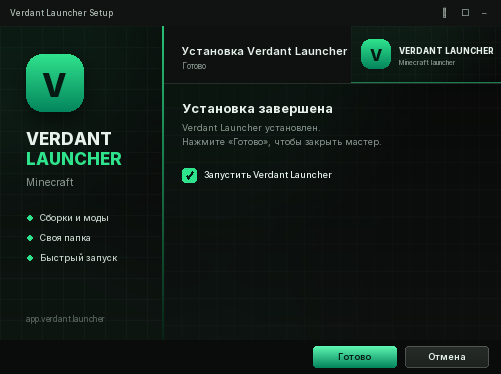
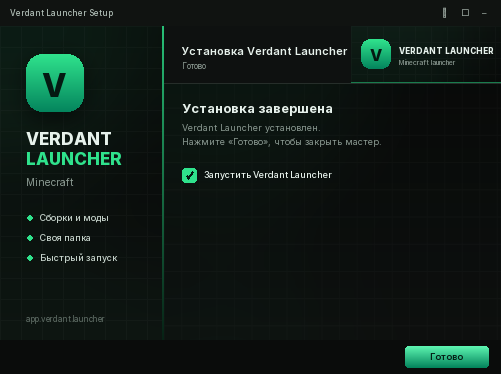
docs: installer screenshots, build notes and CI verification

Changed region(s): [[0.5988, 0.9118, 0.988, 1.0]]

diff --git a/build/installer/generate.py b/build/installer/generate.py
@@ -287,7 +287,7 @@ def preview() -> None:
         draw.text((40, 149), 'Запустить Verdant Launcher', font=font('Medium', 9), fill=TEXT, anchor='lm')
 
     _window(_page('emerald', 'Установка Verdant Launcher', 'Готово', finish_body),
-            'emerald', [('Готово', 'primary'), ('Отмена', 'ghost')]).save(os.path.join(shots, 'installer-finish.png'))
+            'emerald', [('Готово', 'primary')]).save(os.path.join(shots, 'installer-finish.png'))
 
     def uninstall_body(page, draw):
         draw.text((18, 74), 'Удаление Verdant Launcher', font=font('Bold', 13), fill=TEXT)

diff --git a/docs/REPORT.md b/docs/REPORT.md
@@ -164,3 +164,8 @@ src/renderer/ i18n RU/EN, store (Zustand), components, features/{play,instances,
 Полная сборка `.exe` идёт на Windows-раннере (job `installer` в CI) и в Release-workflow.
 
 Превью: `docs/screens/installer-welcome.png`, `installer-progress.png`, `installer-finish.png`, `uninstaller.png`.
+
+**Сборка проверена на Windows-раннере:** job `Windows installer (NSIS wizard)` в CI компилирует
+установщик настоящим `makensis` (NSIS 3.0.4.1) и публикует артефакт `verdant-launcher-setup` (116 МБ) —
+`Verdant-Launcher-1.0.0-Setup.exe`. Первые прогоны падали на `warning 6001` (electron-builder собирает
+с `-WX`, любое предупреждение — ошибка); исправлено инициализацией всех переменных скрипта в обоих проходах.
